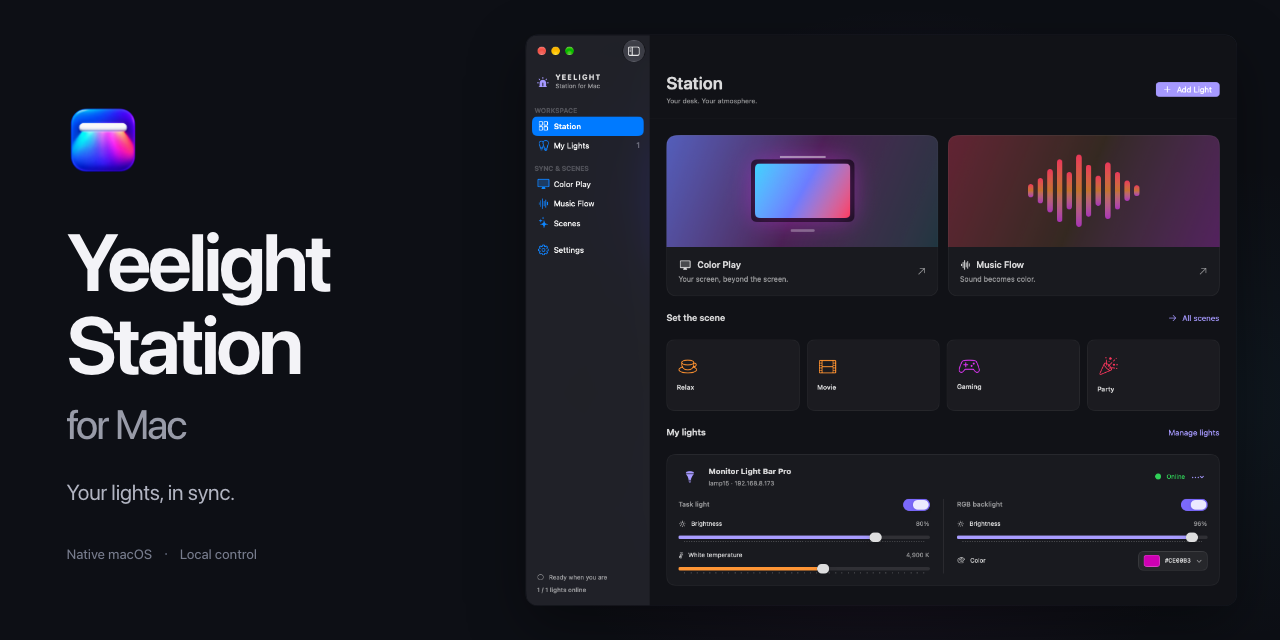
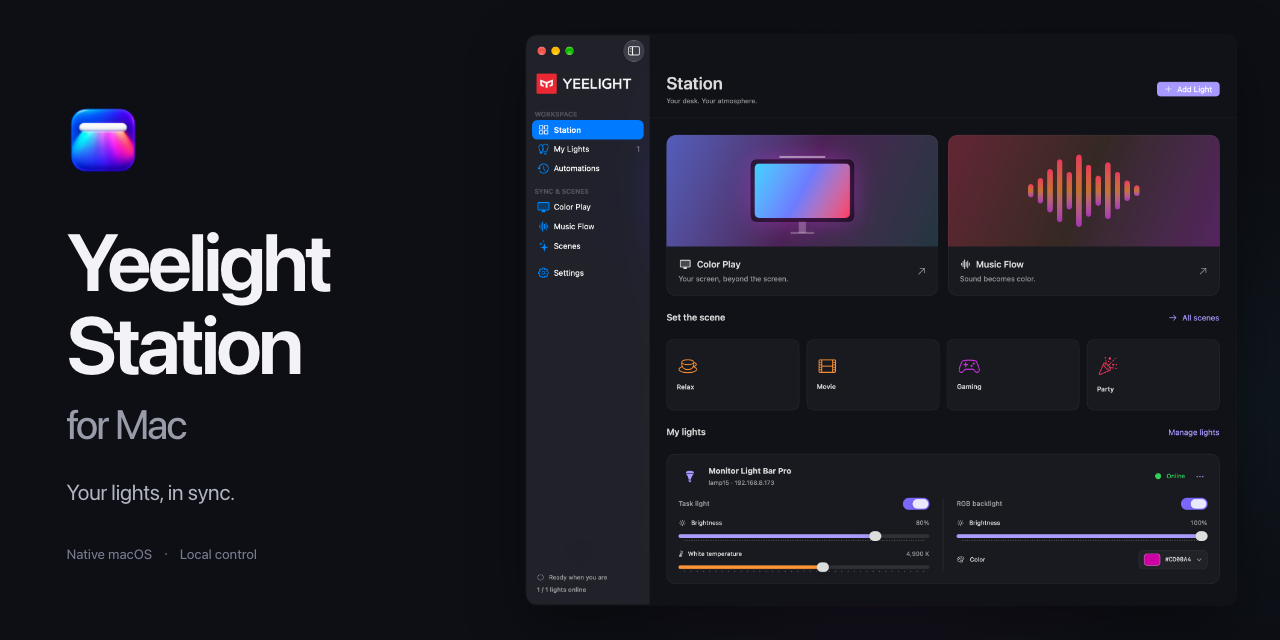
docs(artwork): refresh hero with current Station screenshot

diff --git a/docs/runbooks/artwork.md b/docs/runbooks/artwork.md
@@ -8,7 +8,7 @@ The README cover uses the user-selected Station dashboard screenshot, with the g
 | --- | --- |
 | [readme-hero.png](../../assets/readme-hero.png) | 1600 × 800 README cover |
 | [social-preview.png](../../assets/social-preview.png) | 1280 × 640 opaque social card, under 1 MB |
-| [station.png](../../assets/screenshots/station.png) | User-selected 1179 × 946 Station dashboard screenshot, copied unchanged |
+| [station.png](../../assets/screenshots/station.png) | User-selected 2358 × 1890 Station dashboard screenshot, copied unchanged |
 | [music-flow.png](../../assets/screenshots/music-flow.png) | Actual user-started Music Flow window, used in the README's expandable screenshot |
 | [app-icon.png](../../assets/app-icon.png) | Unmodified generated 1254 × 1254 RGBA source master |
 | [Station.icns](../../assets/Station.icns) | Ten macOS icon representations for the application bundle |
@@ -17,11 +17,17 @@ The README cover uses the user-selected Station dashboard screenshot, with the g
 
 The colorful Dock/Finder icon uses a large silver light bar and broad RGB wash. The menu bar retains its native monochrome lightbulb symbol. No app logic, capture behavior or protocol changes accompany this artwork update.
 
+## Sidebar wordmark
+
+The sidebar uses the user-supplied Yeelight logo, with no additional “Station for Mac” subtitle. The original transparent [light logo](../../Sources/YeelightStation/Resources/yeelight-logo-light.png) keeps black lettering; the generated [dark logo](../../Sources/YeelightStation/Resources/yeelight-logo-dark.png) uses white lettering. The red symbol and horizontal lockup are retained. [Logo generation provenance](../../assets/yeelight-logo-prompt.json) records the built-in imagegen edit and source.
+
+The app follows macOS appearance. Shared semantic backgrounds, readable accent text and the color popover adapt with it. The wordmark is an original-color image rather than a monochrome template. Both PNGs ship in the app's resource bundle; `--self-test` validates them after relocation.
+
 ## Capture and render
 
 Capture the actual app window with macOS window capture, for example `screencapture -x -o -l WINDOW_ID output.png`, using the current window ID. Capture only Station, and check the result for unrelated windows or sensitive content. Do not enable screen/audio sync merely to populate a screenshot. The current dashboard source is the user's supplied screenshot. The earlier Music Flow capture records the user's already-running session; no sync was started to produce repository artwork.
 
-The HTML references the source PNGs with relative paths and can be opened locally. It uses one 2000 × 1000 logical artboard scaled uniformly to the output width. Export the whole stage at 1600 × 800 for the README and 1280 × 640 for the social card. At the README size, the actual dashboard occupies 888 pixels, below its 1179-pixel source width. Its original aspect ratio and complete interface are retained. The current source is the user-provided `Screenshot 2026-10-24 at 3.27.52 AM.png`; its SHA-256 is recorded in the brand data. Keep native screenshot chrome and interface pixels intact.
+The HTML references the source PNGs with relative paths and can be opened locally. It uses one 2000 × 1000 logical artboard scaled uniformly to the output width. Export the whole stage at 1600 × 800 for the README and 1280 × 640 for the social card. At the README size, the actual dashboard occupies 888 pixels, below its 2358-pixel source width. Its original aspect ratio and complete interface are retained. The current source is the user-provided `Screenshot 2026-10-24 at 4.44.39 AM.png`; its SHA-256 is recorded in the brand data. Keep native screenshot chrome and interface pixels intact.
 
 The committed exports were produced with `html_preview`. That renderer accepts absolute local image paths, so replace the relative paths in memory before rendering. Check console image-load reports, dimensions and text clipping. The original source remains portable and relative. Screenshot exports are checked visually before replacing the committed PNGs.
 
